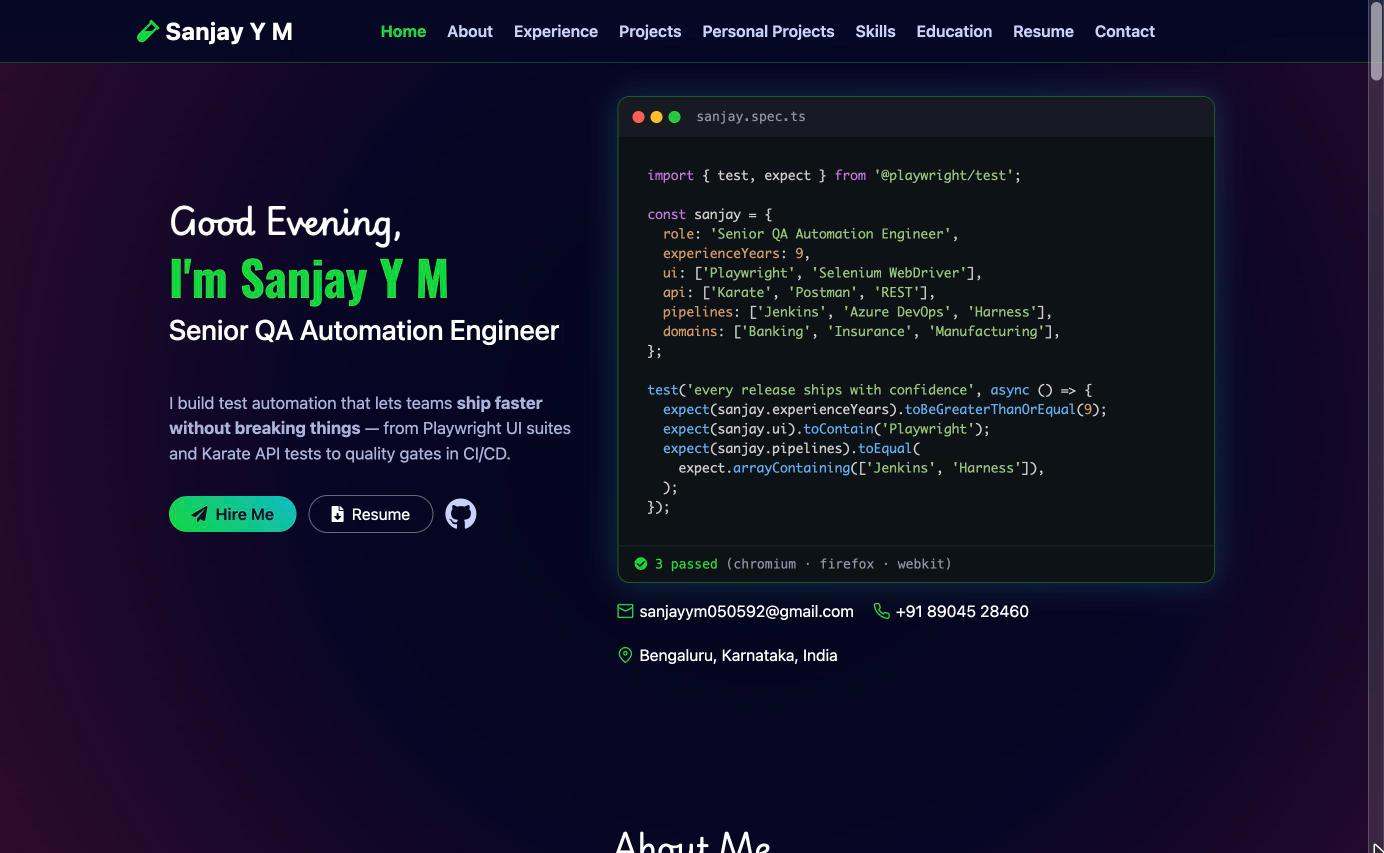
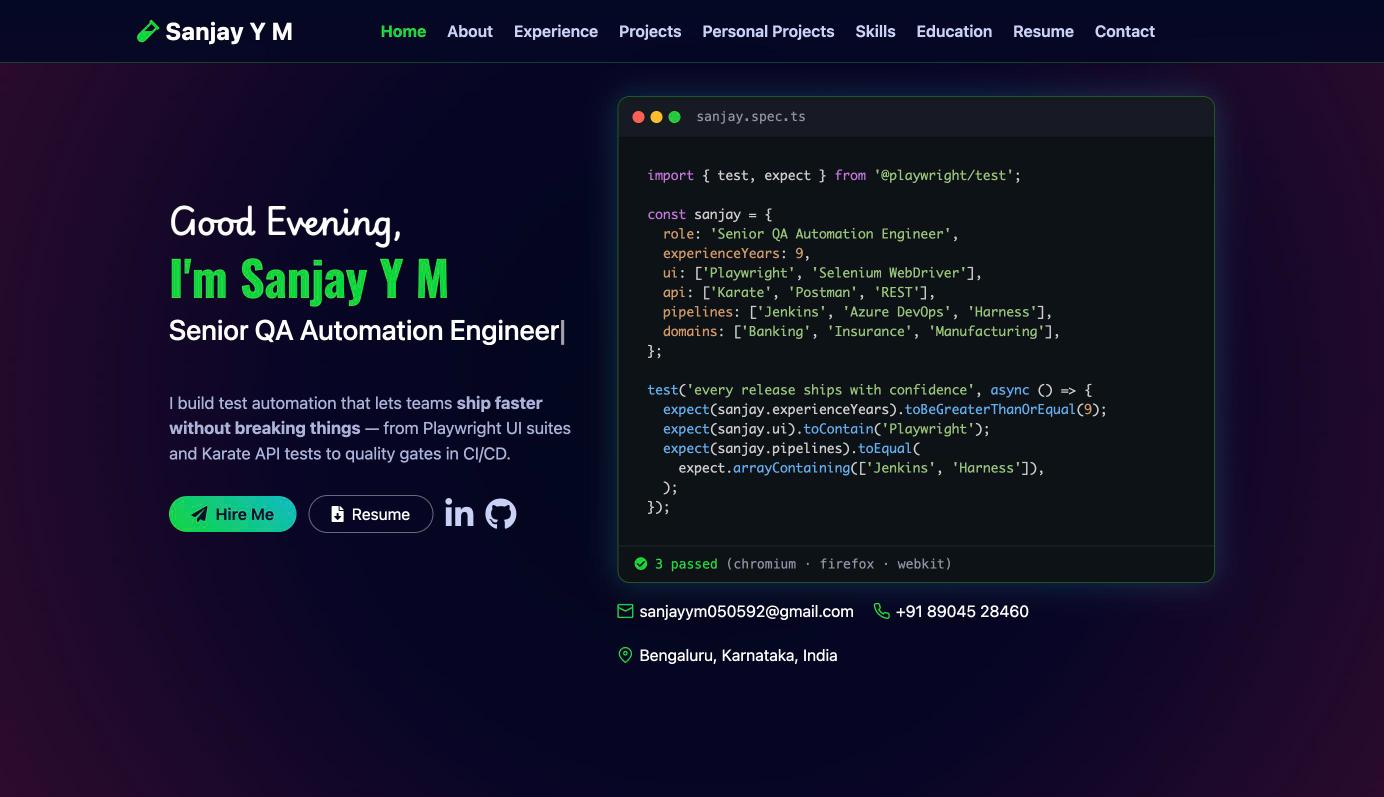
Add LinkedIn, link-preview image, and move to sanjayspear.github.io
- LinkedIn profile in the hero and Contact
- Open Graph / Twitter tags with a 1200x630 preview image (assets/og-image.jpg)
- Site moves to the domain root (repo renamed to sanjayspear.github.io);
  old /My-Portfolio-App/ links forward to the same section, and 404.html
  forwards deeper old links (e.g. the resume PDF)
- README: new URLs, refreshed screenshots

diff --git a/src/index.html b/src/index.html
@@ -8,6 +8,18 @@
   <meta property="og:title" content="Sanjay Y M | Senior QA Automation Engineer">
   <meta property="og:description" content="Playwright, Selenium & Karate test automation · CI/CD quality gates.">
   <meta property="og:type" content="website">
+  <!-- Link previews (WhatsApp, LinkedIn, Slack, X). Image must be an absolute URL. -->
+  <meta property="og:url" content="https://sanjayspear.github.io/">
+  <meta property="og:site_name" content="Sanjay Y M">
+  <meta property="og:image" content="https://sanjayspear.github.io/assets/og-image.jpg">
+  <meta property="og:image:width" content="1200">
+  <meta property="og:image:height" content="630">
+  <meta property="og:image:alt" content="Sanjay Y M, Senior QA Automation Engineer: Playwright, Selenium, Karate API, CI/CD quality gates">
+  <meta name="twitter:card" content="summary_large_image">
+  <meta name="twitter:title" content="Sanjay Y M | Senior QA Automation Engineer">
+  <meta name="twitter:description" content="Playwright, Selenium & Karate test automation · CI/CD quality gates.">
+  <meta name="twitter:image" content="https://sanjayspear.github.io/assets/og-image.jpg">
+  <link rel="canonical" href="https://sanjayspear.github.io/">
   <meta name="theme-color" content="#050823">
   <base href="/">
   <meta name="viewport" content="width=device-width, initial-scale=1">

diff --git a/src/legacy-redirect/index.html b/src/legacy-redirect/index.html
@@ -1,0 +1,23 @@
+<!doctype html>
+<!--
+  The portfolio used to live at https://sanjayspear.github.io/My-Portfolio-App/.
+  This page is published at that old address so links shared before the move keep
+  working. It forwards visitors to the same section on the new address.
+-->
+<html lang="en">
+<head>
+  <meta charset="utf-8">
+  <title>Sanjay Y M | Senior QA Automation Engineer</title>
+  <meta name="viewport" content="width=device-width, initial-scale=1">
+  <link rel="canonical" href="https://sanjayspear.github.io/">
+  <meta name="robots" content="noindex">
+  <meta http-equiv="refresh" content="0; url=https://sanjayspear.github.io/">
+  <script>
+    // Keep "#Section" so old links to a section land on the same section.
+    location.replace('https://sanjayspear.github.io/' + location.hash);
+  </script>
+</head>
+<body style="background:#050823;color:#d5dbf7;font-family:sans-serif;text-align:center;padding-top:20vh">
+  <p>This portfolio has moved to <a href="https://sanjayspear.github.io/" style="color:#12d640">sanjayspear.github.io</a>.</p>
+</body>
+</html>

diff --git a/src/404.html b/src/404.html
@@ -1,0 +1,23 @@
+<!doctype html>
+<!--
+  GitHub Pages serves this for any address that doesn't exist on sanjayspear.github.io.
+  Old links under /My-Portfolio-App/... (e.g. the resume PDF) are forwarded to the same
+  file at the new address; anything else goes to the portfolio home page.
+-->
+<html lang="en">
+<head>
+  <meta charset="utf-8">
+  <title>Page not found | Sanjay Y M</title>
+  <meta name="viewport" content="width=device-width, initial-scale=1">
+  <meta name="robots" content="noindex">
+  <script>
+    var oldPrefix = '/My-Portfolio-App/';
+    var path = location.pathname;
+    var target = path.indexOf(oldPrefix) === 0 ? '/' + path.slice(oldPrefix.length) : '/';
+    location.replace(target + location.search + location.hash);
+  </script>
+</head>
+<body style="background:#050823;color:#d5dbf7;font-family:sans-serif;text-align:center;padding-top:20vh">
+  <p>Page not found. Go to <a href="/" style="color:#12d640">the portfolio home page</a>.</p>
+</body>
+</html>

diff --git a/src/app/contact/contact.component.html b/src/app/contact/contact.component.html
@@ -30,14 +30,14 @@
             <a class="glass-card contact-card" [href]="p.github" target="_blank" rel="noopener">
                 <i class="pi pi-github contact-icon"></i>
                 <span class="contact-label">GitHub</span>
-                <strong class="contact-value">{{ p.github.replace('https://', '') }}</strong>
+                <strong class="contact-value">{{ githubLabel }}</strong>
             </a>
         </div>
         <div class="col-md-6 col-lg-4 mb-4" *ngIf="p.linkedin">
             <a class="glass-card contact-card" [href]="p.linkedin" target="_blank" rel="noopener">
                 <i class="pi pi-linkedin contact-icon"></i>
                 <span class="contact-label">LinkedIn</span>
-                <strong class="contact-value">View profile</strong>
+                <strong class="contact-value">{{ linkedinLabel }}</strong>
             </a>
         </div>
     </div>

diff --git a/src/app/data/profile.ts b/src/app/data/profile.ts
@@ -288,8 +288,8 @@ const personalProjects: PersonalProject[] = [
     ],
     tech: ['Angular', 'TypeScript', 'SCSS', 'Bootstrap', 'GitHub Actions'],
     quality: 'GitHub Actions CI/CD to GitHub Pages on every push',
-    repo: `${GITHUB}/My-Portfolio-App`,
-    demo: 'https://sanjayspear.github.io/My-Portfolio-App/',
+    repo: `${GITHUB}/sanjayspear.github.io`,
+    demo: 'https://sanjayspear.github.io/',
   },
 ];
 
@@ -304,7 +304,7 @@ export const PROFILE = {
   phone: '+91 89045 28460',
   phoneHref: '+918904528460',
   /** Add your profile URLs here — empty values are hidden on the site. */
-  linkedin: '',
+  linkedin: 'https://www.linkedin.com/in/sanjayspear/',
   github: GITHUB,
 
   /** Calculated: completed years since CAREER_START_DATE. */

diff --git a/src/app/contact/contact.component.ts b/src/app/contact/contact.component.ts
@@ -8,4 +8,11 @@ import { PROFILE } from '../data/profile';
 })
 export class ContactComponent {
   p = PROFILE;
+  /** 'https://www.linkedin.com/in/x/' → 'linkedin.com/in/x' */
+  linkedinLabel = shortUrl(PROFILE.linkedin);
+  githubLabel = shortUrl(PROFILE.github);
+}
+
+function shortUrl(url: string): string {
+  return url.replace(/^https?:\/\/(www\.)?/, '').replace(/\/$/, '');
 }

diff --git a/README.md b/README.md
@@ -3,11 +3,11 @@
 Personal portfolio website for **Sanjay Y M, Senior QA Automation Engineer**.
 It's a single scrolling page built with **Angular 16**, Bootstrap 4 and PrimeNG, and hosted free on GitHub Pages.
 
-### 🔗 Live site: **https://sanjayspear.github.io/My-Portfolio-App/**
+### 🔗 Live site: **https://sanjayspear.github.io/**
 
-[![Deploy portfolio](https://github.com/sanjayspear/My-Portfolio-App/actions/workflows/deploy.yml/badge.svg)](https://github.com/sanjayspear/My-Portfolio-App/actions/workflows/deploy.yml)
+[![Deploy portfolio](https://github.com/sanjayspear/sanjayspear.github.io/actions/workflows/deploy.yml/badge.svg)](https://github.com/sanjayspear/sanjayspear.github.io/actions/workflows/deploy.yml)
 
-[![Portfolio home page](docs/screenshots/01-home.jpg)](https://sanjayspear.github.io/My-Portfolio-App/)
+[![Portfolio home page](docs/screenshots/01-home.jpg)](https://sanjayspear.github.io/)
 
 **Sections:** Home · About · Experience · Projects · Personal Projects · Skills · Education · Resume · Contact
 
@@ -30,7 +30,11 @@ It's a single scrolling page built with **Angular 16**, Bootstrap 4 and PrimeNG,
 
 ## 1. Live site and sharing
 
-**Portfolio URL:** https://sanjayspear.github.io/My-Portfolio-App/
+**Portfolio URL:** https://sanjayspear.github.io/
+
+> The site used to be at `https://sanjayspear.github.io/My-Portfolio-App/`. Links shared before
+> the move still work, because they forward to the same section at the new address
+> (`src/legacy-redirect/` and `src/404.html`).
 
 The site is public, so anyone can open it on a phone or computer without a GitHub account.
 
@@ -43,7 +47,7 @@ Any of these show the live link:
 | **Settings → Pages** (most direct) | Open the repo → **Settings** (top tab) → **Pages** (left sidebar, under *Code and automation*). The top of the page says **"Your site is live at https://…"**. Click **Visit site**, or copy the link. |
 | **Deployments** (repo home page) | On the repo's main page, find **Deployments** in the right-hand sidebar → click **github-pages** → each deployment shows **View deployment** with the live link. |
 | **Actions** | **Actions** tab → open the latest **Deploy portfolio** run (green ✔) → the **deploy** box shows the URL. |
-| **Build it yourself** | The pattern is `https://<username>.github.io/<repo-name>/`, so here it's `https://sanjayspear.github.io/My-Portfolio-App/`. |
+| **Build it yourself** | This repo is named `<username>.github.io`, so the site is at the domain root: `https://sanjayspear.github.io/`. |
 
 > **Tip: show the link on the repo's main page.** On the repo home, click the ⚙ gear next to
 > **About** (right sidebar) → tick **"Use your GitHub Pages website"** → **Save changes**.
@@ -58,7 +62,7 @@ Any of these show the live link:
 **Ready-to-send message:**
 
 > Hi! I've put together my portfolio. Have a look and let me know what you think:
-> https://sanjayspear.github.io/My-Portfolio-App/
+> https://sanjayspear.github.io/
 
 **For recruiters, also add the link to:**
 
@@ -66,11 +70,13 @@ Any of these show the live link:
 |---|---|
 | **LinkedIn** | Edit profile → **Contact info → Website** (type: *Portfolio*). You can also add it under **Featured → Add → Link**. |
 | **Resume** | Next to your email and phone in the header. Then run `npm run update-resume` with the new PDF (see [section 7](#7-updating-your-resume-pdf)). |
-| **Email signature** | Add a line such as *Portfolio: https://sanjayspear.github.io/My-Portfolio-App/* |
+| **Email signature** | Add a line such as *Portfolio: https://sanjayspear.github.io/* |
 | **In person / events** | In Chrome on the live site: **⋮ menu → Cast, save and share → Create QR code**, then download the QR image to print or show on your phone. |
 
-> ℹ WhatsApp and Slack show the page title and description when you paste the link, but no
-> preview image yet, because no social preview image is set.
+> ℹ When you paste the link into WhatsApp, LinkedIn or Slack, it shows a preview card with this
+> image: `src/assets/og-image.jpg` (1200×630). Apps cache previews, so after changing the image
+> it can take a day to update. On LinkedIn you can refresh it with the
+> [Post Inspector](https://www.linkedin.com/post-inspector/).
 
 ---
 
@@ -99,7 +105,7 @@ Captured from the live site (desktop, 1440 px wide).
 **Education and Resume download:** shows the "Last updated" month automatically.
 ![Education and Resume](docs/screenshots/07-education-resume.jpg)
 
-**Contact:** clickable email, phone and GitHub.
+**Contact:** clickable email, phone, GitHub and LinkedIn.
 ![Contact](docs/screenshots/08-contact.jpg)
 
 > To refresh these after a redesign, take new screenshots of the live site and save them over
@@ -197,7 +203,10 @@ My-Porfolio-App/
 │   ├── assets/
 │   │   ├── resume/Sanjay-Y-M-Resume.pdf   ← the PDF visitors download
 │   │   ├── Images/ · vedio/                ← images and the education video
-│   ├── index.html                ← browser tab title and default description
+│   │   ├── og-image.jpg          ← link-preview image (WhatsApp, LinkedIn, Slack)
+│   ├── index.html                ← browser tab title, description and link-preview tags
+│   ├── 404.html                  ← forwards unknown/old addresses to the right page
+│   ├── legacy-redirect/          ← keeps the old /My-Portfolio-App/ link working
 │   └── styles.scss               ← shared colours, cards, buttons
 ├── scripts/update-resume.mjs     ← powers `npm run update-resume`
 └── package.json
@@ -346,7 +355,7 @@ Add an entry to the `personalProjects` list (cards appear in list order):
 |---|---|
 | Add a skill | Add it to the matching group's `items` in `skills` |
 | Add a CI/CD platform | Add it to `CI_CD_PLATFORMS` (QUICK UPDATE block) |
-| Add **LinkedIn** | Fill in `linkedin: 'https://…'`. The icon and contact card appear only when it's set. GitHub is already set from `GITHUB` |
+| Change **LinkedIn / GitHub** | `linkedin` (set to your profile) and `GITHUB` (QUICK UPDATE area). Their icons and contact cards appear only when set |
 | Change phone, email, location | `email`, `phone` (shown), `phoneHref` (digits for the call link), `location` |
 | Edit the bio | the `about` paragraphs. Keep `${YEARS}+` wherever you mention experience so it stays automatic |
 | Change the rotating titles on Home | the `roles` list |
